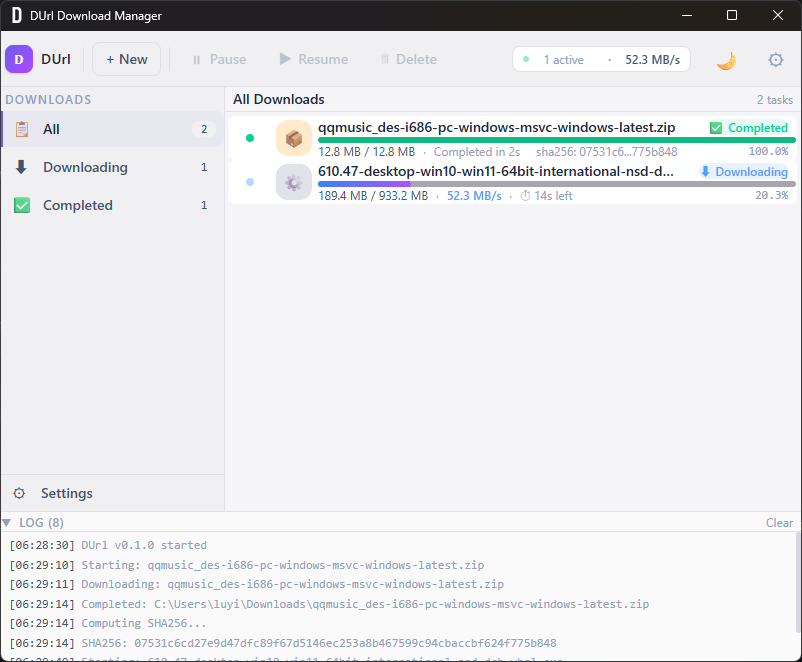
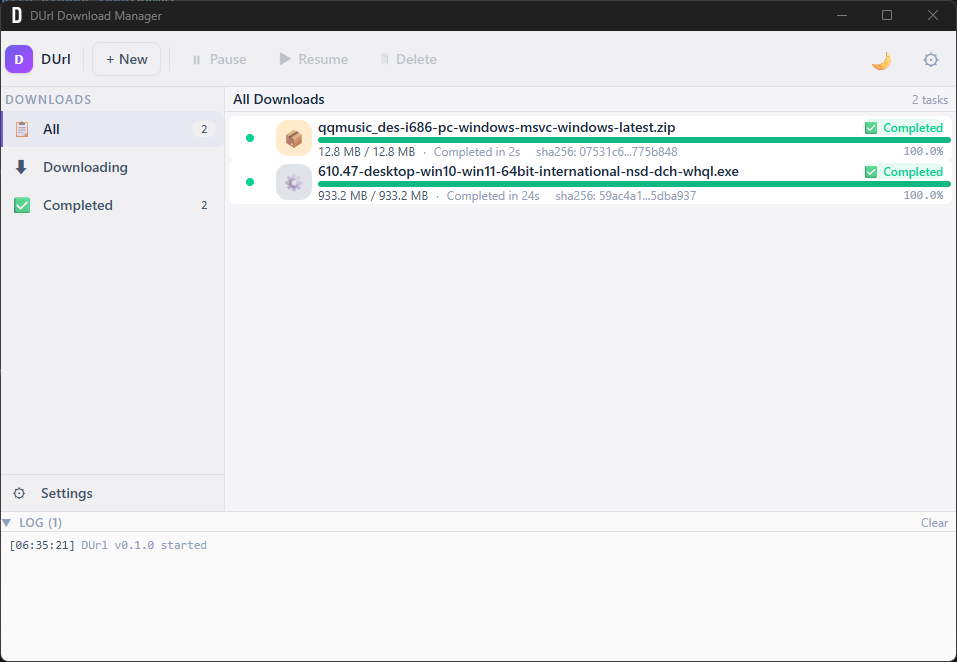
feat: increase main window size to improve user experience

diff --git a/durl-gui-dx/src/main.rs b/durl-gui-dx/src/main.rs
@@ -82,7 +82,7 @@ fn main() {
                         ))
                         .unwrap(),
                     ))
-                    .with_inner_size(dioxus::desktop::LogicalSize::new(800.0, 630.0))
+                    .with_inner_size(dioxus::desktop::LogicalSize::new(955.0, 630.0)),
             ),
         )
         .launch(App);
